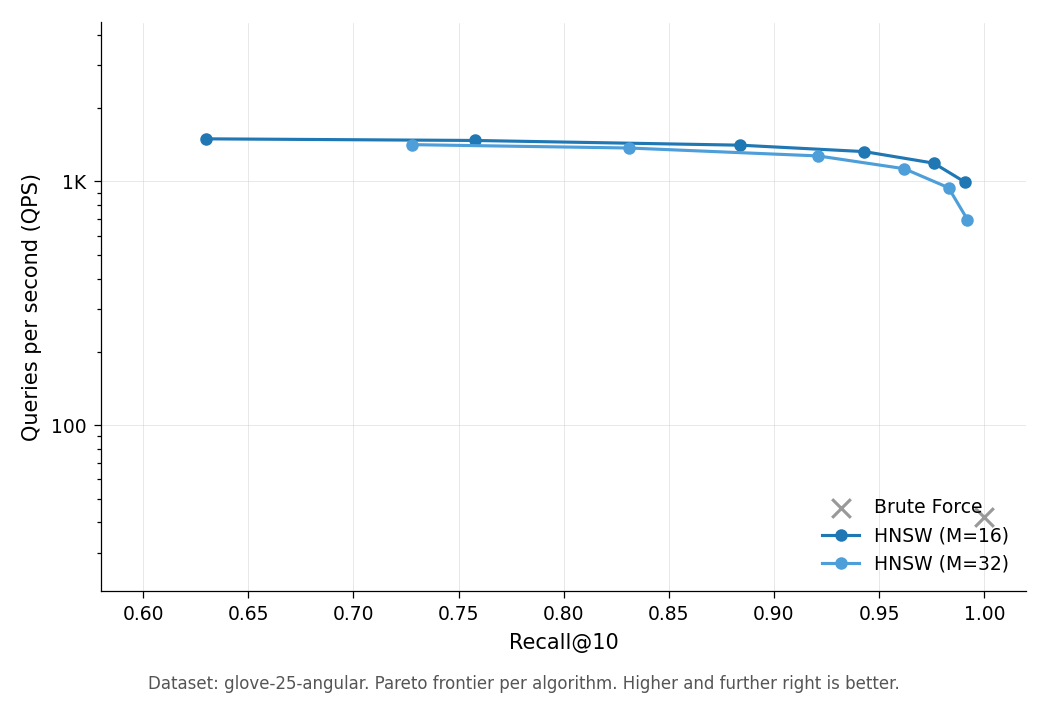
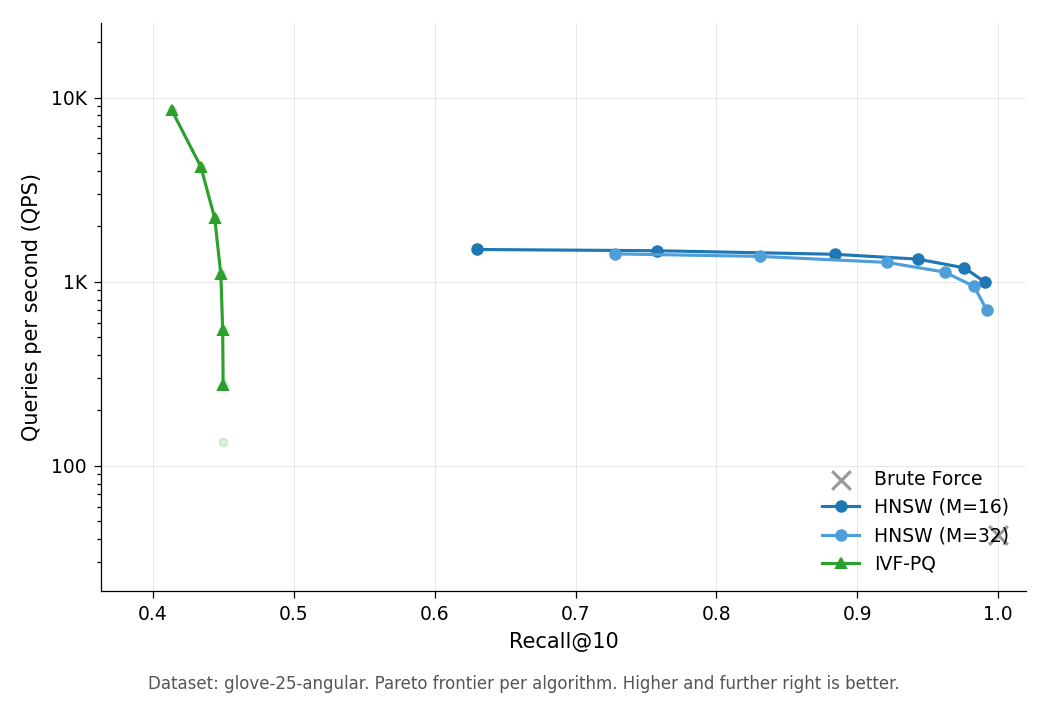
bench: update IVF-PQ GloVe-25 results after PQ training fix
Replace broken IVF-PQ benchmark entries (recall was backwards: 23.5%→1.3%
as nprobe 4→256) with correct results from fixed PQ codebook training.

New IVF-PQ results (1024 clusters, 5 codebooks, 25-d):
  nprobe=  4: recall=41.3%  qps=8526
  nprobe=  8: recall=43.4%  qps=4208
  nprobe= 16: recall=44.4%  qps=2216
  nprobe= 32: recall=44.8%  qps=1094
  nprobe= 64: recall=44.9%  qps=545
  nprobe=128: recall=45.0%  qps=273
  nprobe=256: recall=45.0%  qps=135

Regenerate comparison plot with corrected IVF-PQ curve.

diff --git a/scripts/plot_comparison.py b/scripts/plot_comparison.py
@@ -30,6 +30,7 @@ ALGO_STYLE = {
     "hnsw-m32": {"color": "#4e9fd9", "marker": "o",  "label": "HNSW (M=32)"},
     "nsw":    {"color": "#d62728", "marker": "s",  "label": "NSW"},
     "ivfpq":  {"color": "#2ca02c", "marker": "^",  "label": "IVF-PQ"},
+    "ivfpq-1024L": {"color": "#2ca02c", "marker": "^",  "label": "IVF-PQ"},
     "vamana": {"color": "#ff7f0e", "marker": "D",  "label": "Vamana"},
     "scann":  {"color": "#9467bd", "marker": "v",  "label": "ScaNN"},
 }
